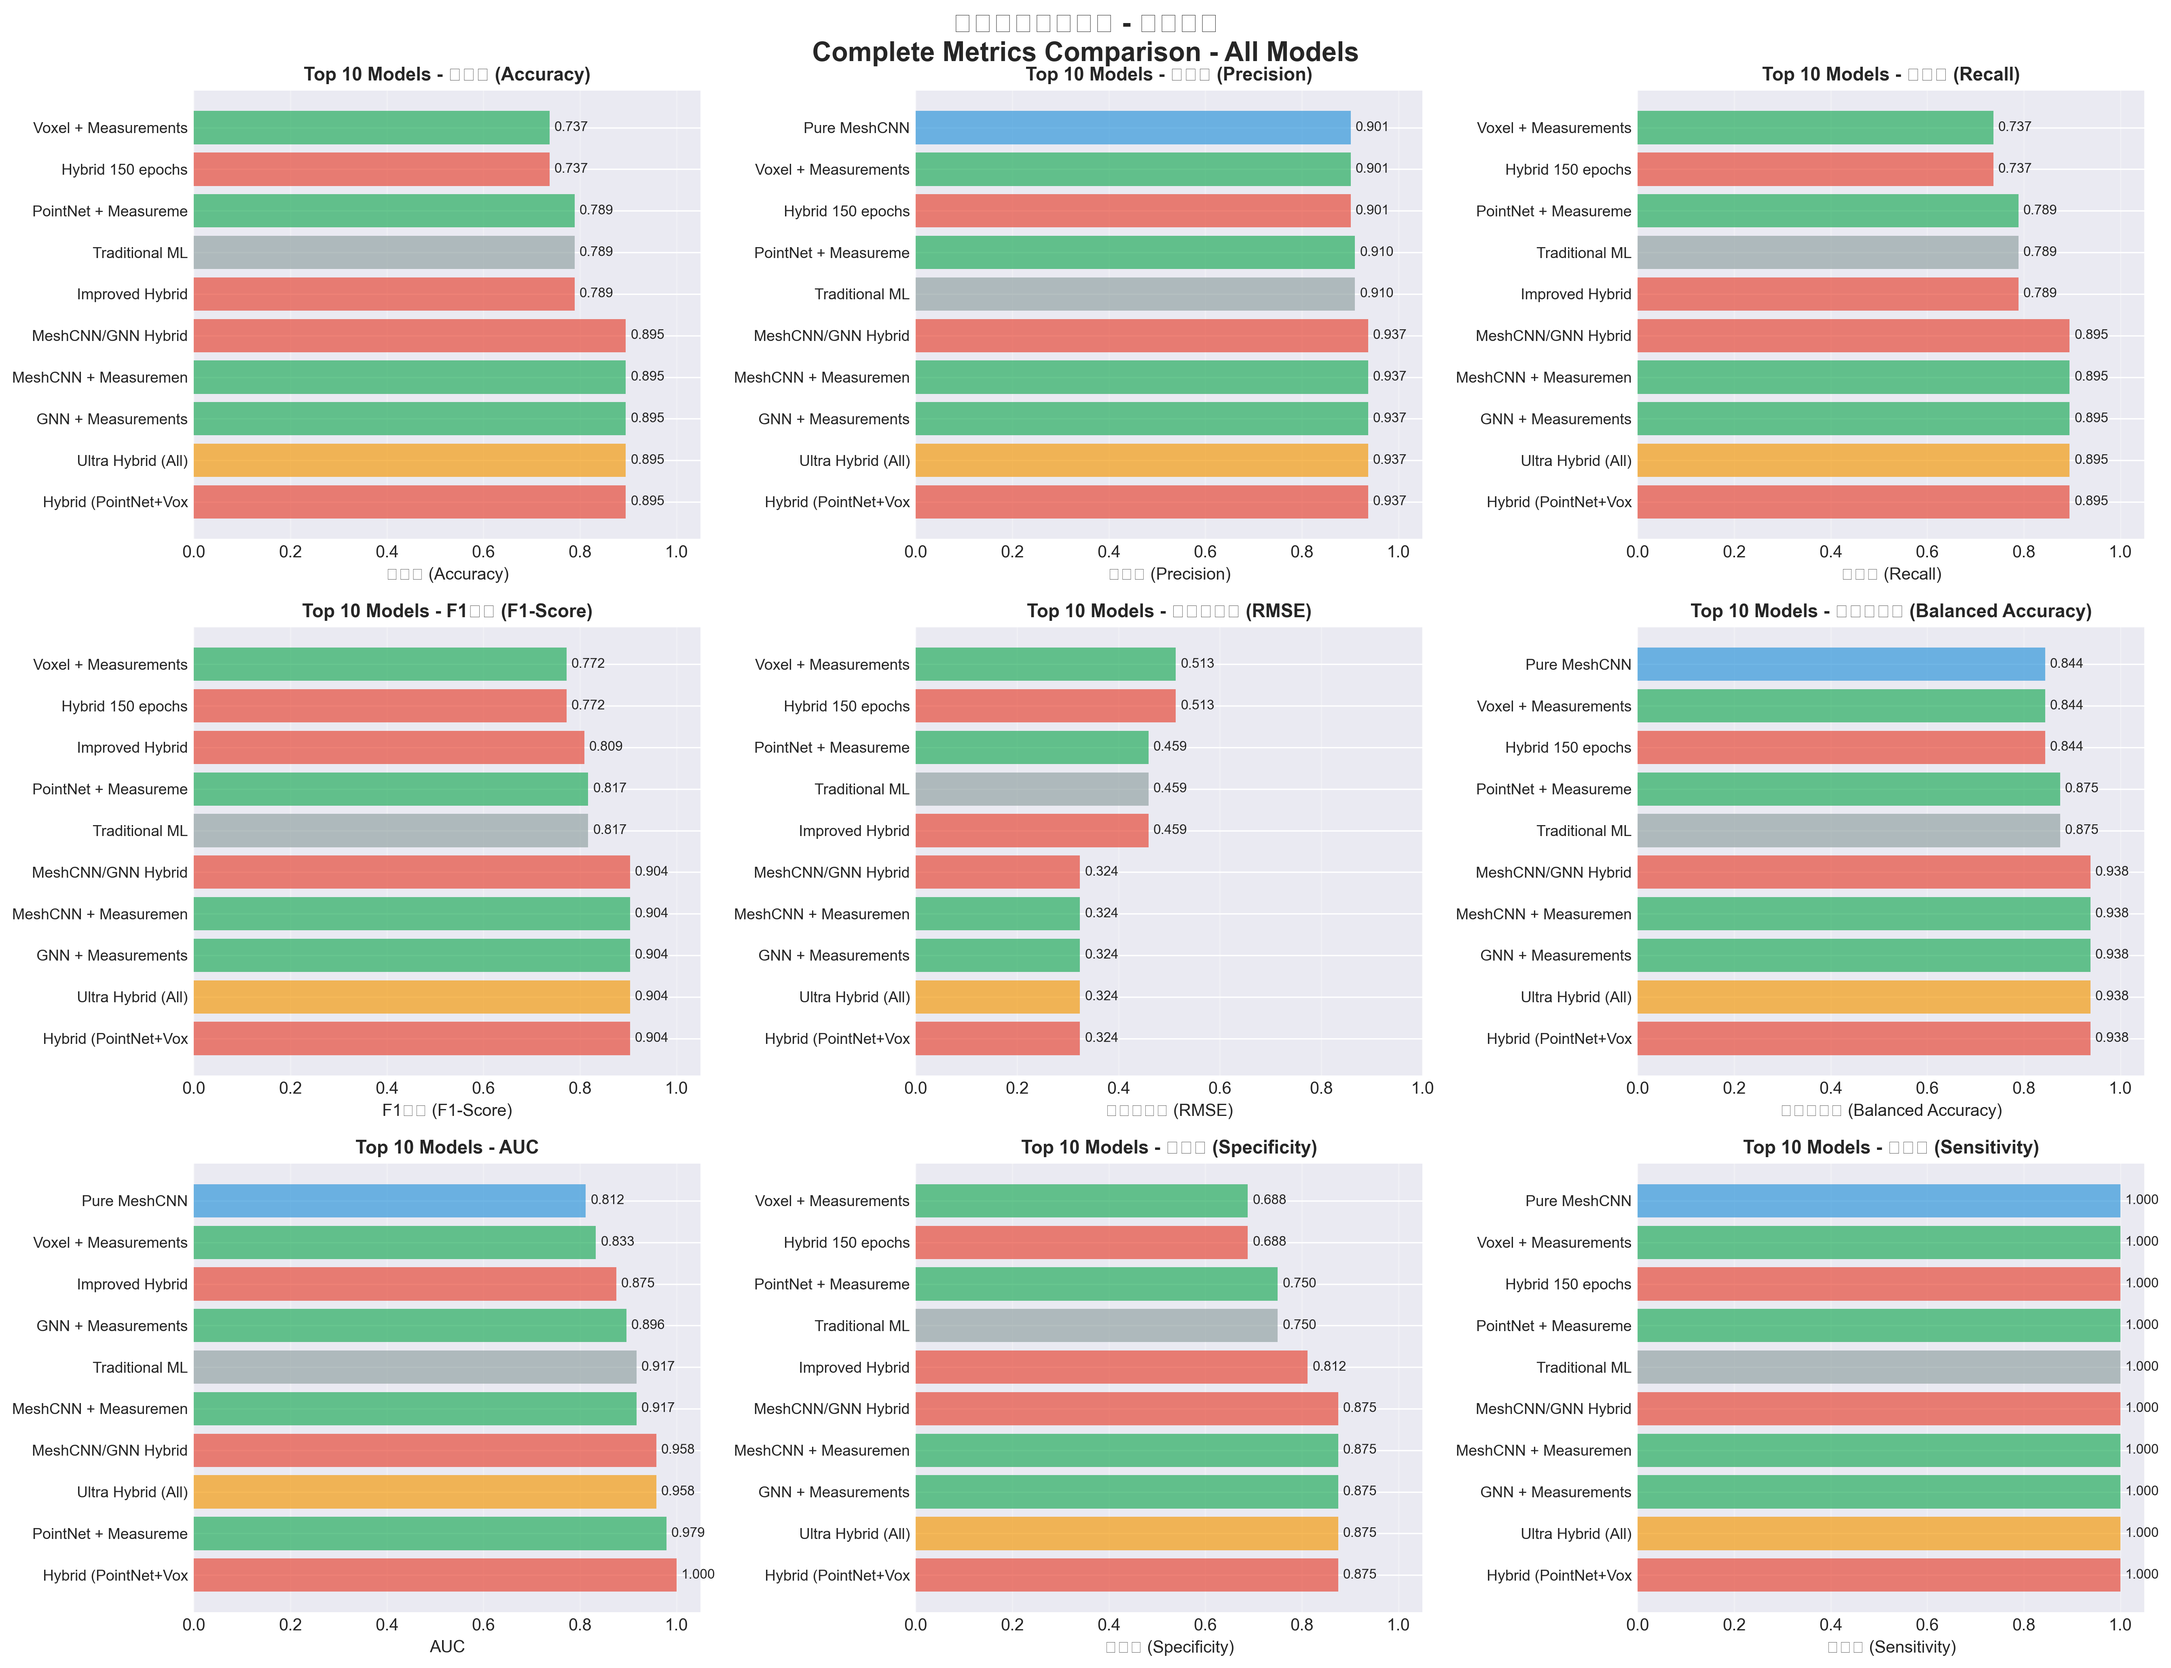
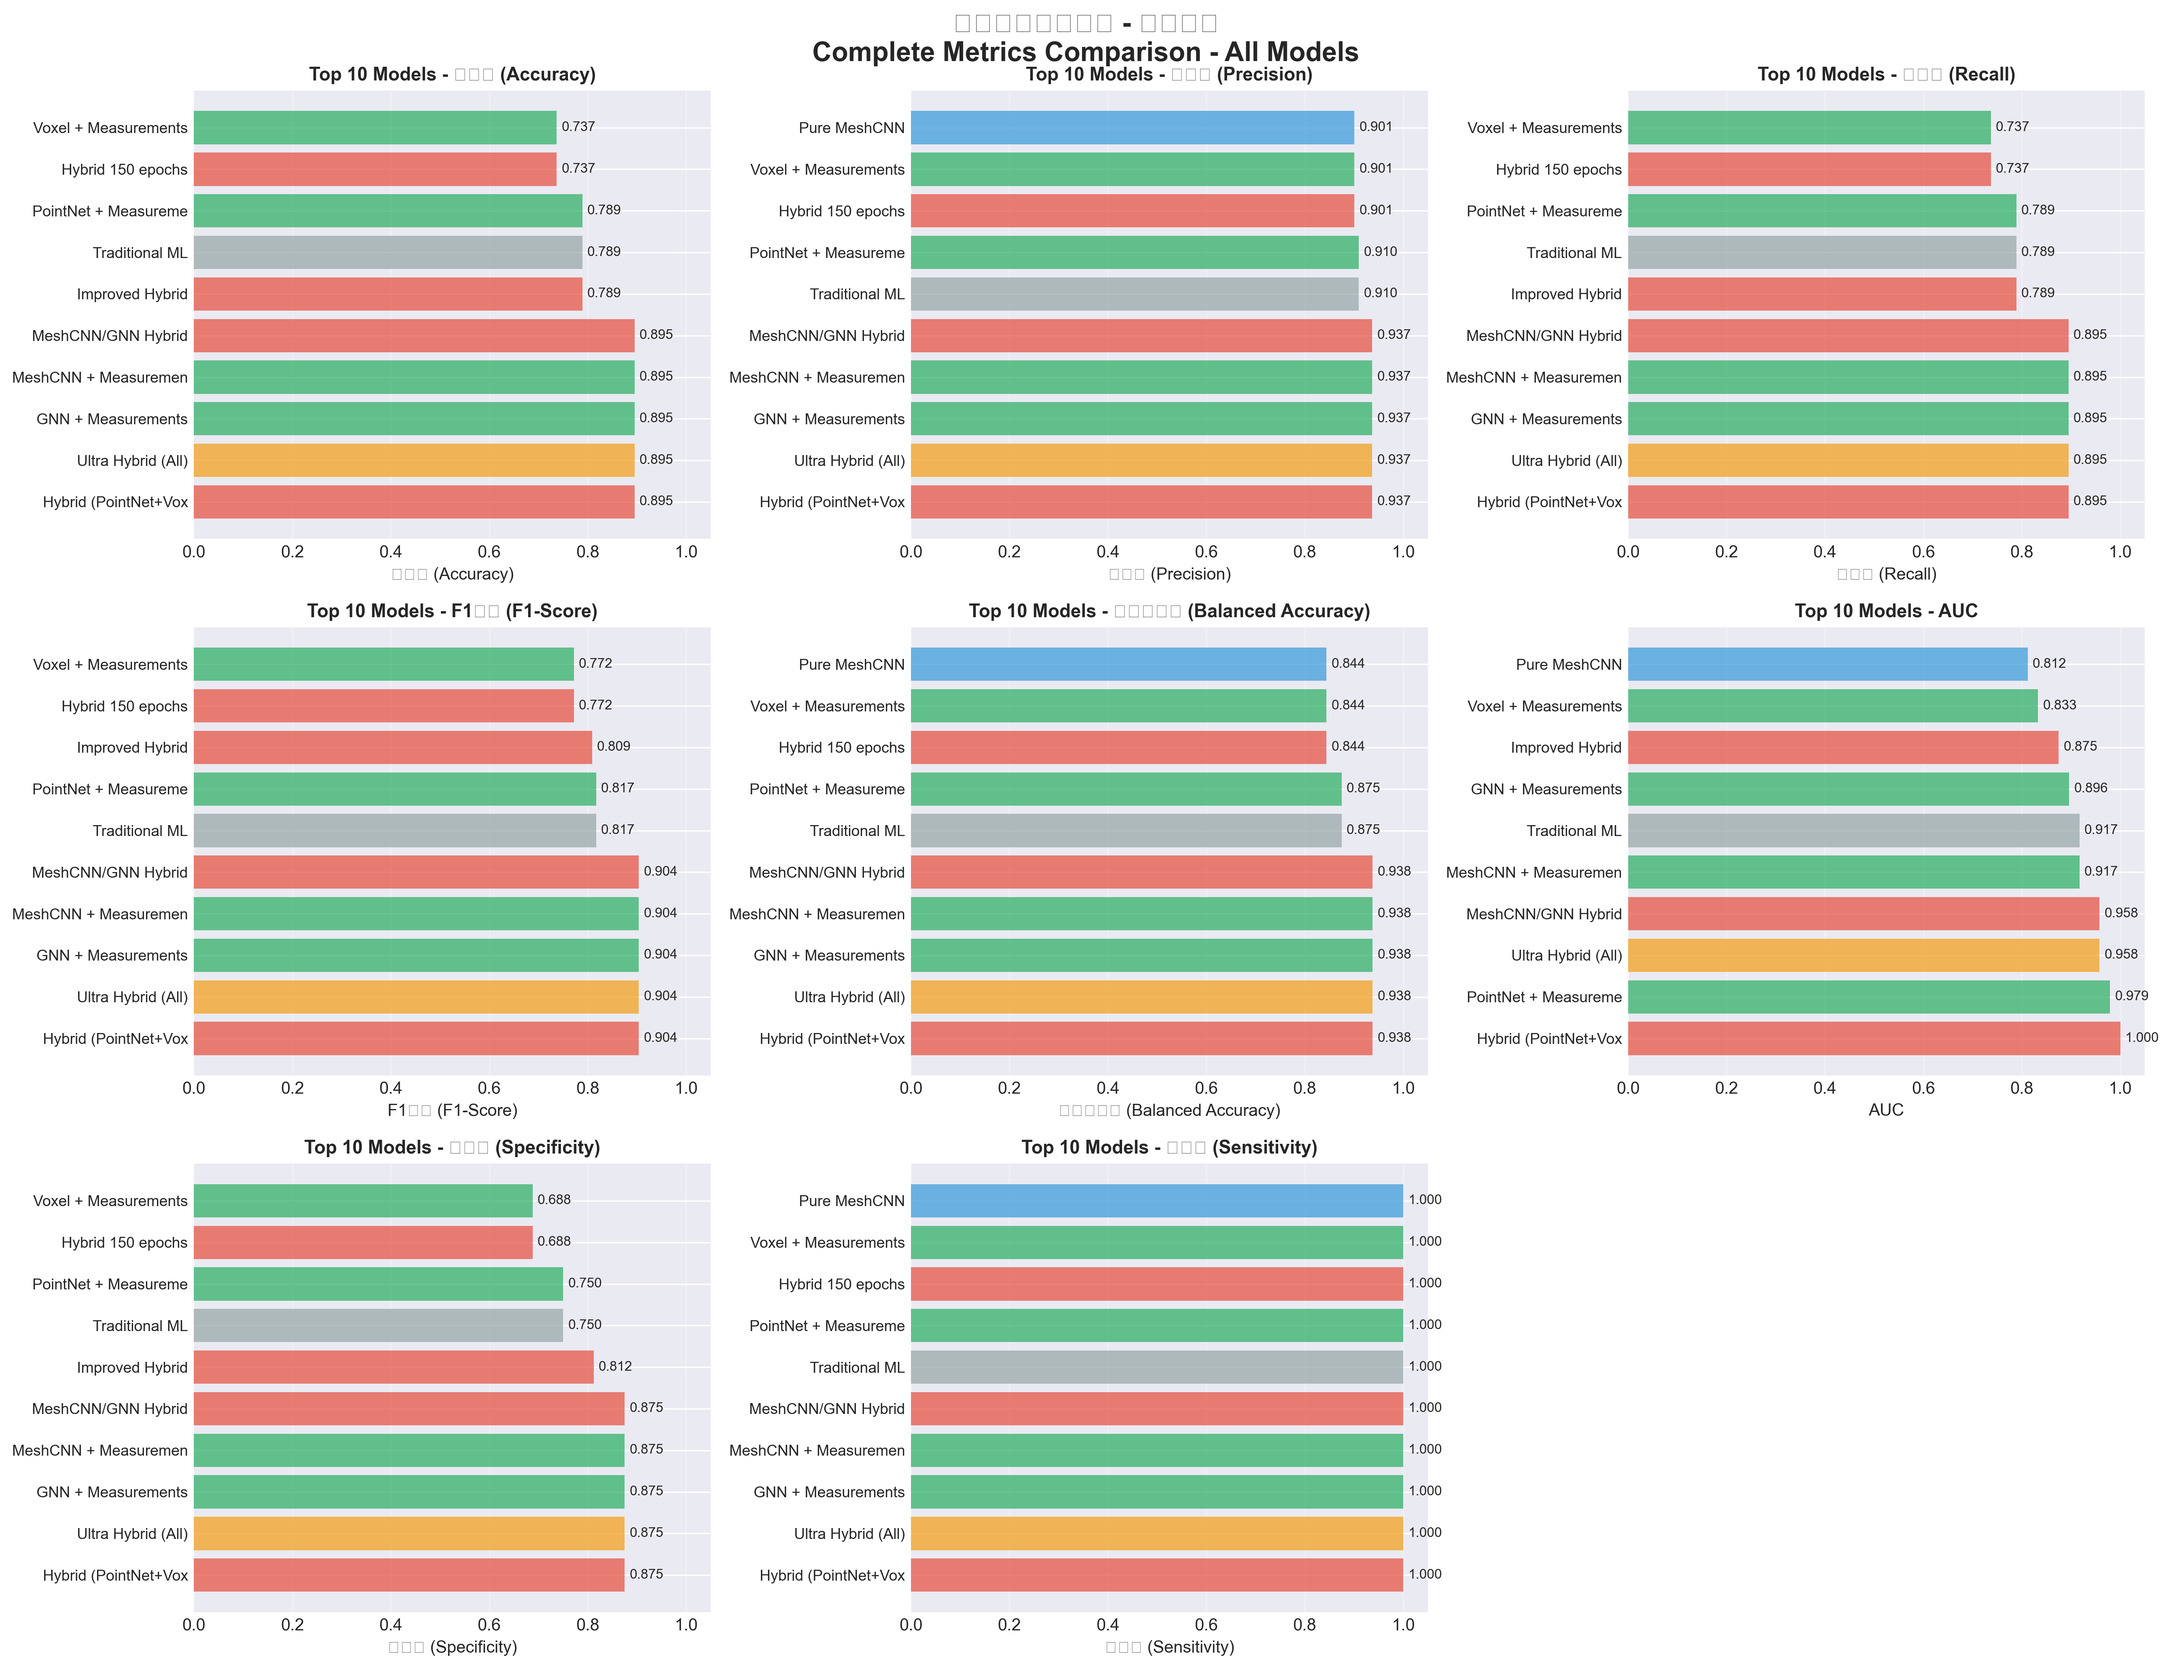
Remove RMSE metric from model comparison analysis
- Removed RMSE (Root Mean Square Error) from all metrics calculations
- Updated visualization from 9-panel to 8-panel grid
- Regenerated all comparison charts without RMSE
- Updated CSV output to exclude RMSE column
- Modified composite score calculation weights:
  * Accuracy: 30%, Precision: 20%, Recall: 20%, F1-Score: 30%
- Updated documentation to reflect metric changes

Rationale: RMSE is more suitable for regression tasks, not classification

🤖 Generated with [Claude Code](https://claude.ai/code)

diff --git a/complete_metrics_comparison.py b/complete_metrics_comparison.py
@@ -46,13 +46,10 @@ def calculate_all_metrics(y_true, y_pred, y_prob=None, model_name="Model"):
     # 4. F1分數 (F1-Score)
     metrics['F1_Score'] = f1_score(y_true, y_pred, average='weighted')
     
-    # 5. 均方根誤差 (RMSE)
-    metrics['RMSE'] = np.sqrt(mean_squared_error(y_true, y_pred))
-    
-    # 6. 平衡準確率 (Balanced Accuracy)
+    # 5. 平衡準確率 (Balanced Accuracy)
     metrics['Balanced_Accuracy'] = balanced_accuracy_score(y_true, y_pred)
     
-    # 7. AUC (if probabilities available)
+    # 6. AUC (if probabilities available)
     if y_prob is not None:
         try:
             metrics['AUC'] = roc_auc_score(y_true, y_prob)
@@ -61,11 +58,11 @@ def calculate_all_metrics(y_true, y_pred, y_prob=None, model_name="Model"):
     else:
         metrics['AUC'] = None
     
-    # 8. 混淆矩陣 (Confusion Matrix)
+    # 7. 混淆矩陣 (Confusion Matrix)
     cm = confusion_matrix(y_true, y_pred)
     metrics['Confusion_Matrix'] = cm
     
-    # 9. 特異度 (Specificity) - for binary classification
+    # 8. 特異度 (Specificity) - for binary classification
     if len(np.unique(y_true)) == 2:
         tn, fp, fn, tp = cm.ravel()
         metrics['Specificity'] = tn / (tn + fp) if (tn + fp) > 0 else 0
@@ -218,7 +215,6 @@ def create_comprehensive_comparison_table(all_metrics):
             '精確率\nPrecision': f"{metrics['Precision']:.3f}",
             '召回率\nRecall': f"{metrics['Recall']:.3f}",
             'F1分數\nF1-Score': f"{metrics['F1_Score']:.3f}",
-            'RMSE': f"{metrics['RMSE']:.3f}",
             '平衡準確率\nBalanced Acc': f"{metrics['Balanced_Accuracy']:.3f}",
             'AUC': f"{metrics['AUC']:.3f}" if metrics['AUC'] else 'N/A',
             '特異度\nSpecificity': f"{metrics.get('Specificity', 0):.3f}",
@@ -284,11 +280,11 @@ def plot_metrics_comparison(df):
         ('精確率\nPrecision', '精確率 (Precision)', axes[0, 1]),
         ('召回率\nRecall', '召回率 (Recall)', axes[0, 2]),
         ('F1分數\nF1-Score', 'F1分數 (F1-Score)', axes[1, 0]),
-        ('RMSE', '均方根誤差 (RMSE)', axes[1, 1]),
-        ('平衡準確率\nBalanced Acc', '平衡準確率 (Balanced Accuracy)', axes[1, 2]),
-        ('AUC', 'AUC', axes[2, 0]),
-        ('特異度\nSpecificity', '特異度 (Specificity)', axes[2, 1]),
-        ('敏感度\nSensitivity', '敏感度 (Sensitivity)', axes[2, 2])
+        ('平衡準確率\nBalanced Acc', '平衡準確率 (Balanced Accuracy)', axes[1, 1]),
+        ('AUC', 'AUC', axes[1, 2]),
+        ('特異度\nSpecificity', '特異度 (Specificity)', axes[2, 0]),
+        ('敏感度\nSensitivity', '敏感度 (Sensitivity)', axes[2, 1]),
+        (None, None, axes[2, 2])  # Empty subplot
     ]
     
     # Color mapping for categories
@@ -301,6 +297,11 @@ def plot_metrics_comparison(df):
     }
     
     for metric_col, title, ax in metrics_to_plot:
+        # Handle empty subplot
+        if metric_col is None:
+            ax.axis('off')
+            continue
+            
         # Get top 10 models for this metric
         if metric_col in df.columns:
             # Convert to float for sorting
@@ -308,10 +309,7 @@ def plot_metrics_comparison(df):
             df_metric[metric_col] = pd.to_numeric(df_metric[metric_col], errors='coerce')
             
             # Sort and get top 10
-            if metric_col == 'RMSE':  # Lower is better for RMSE
-                df_sorted = df_metric.nsmallest(10, metric_col)
-            else:
-                df_sorted = df_metric.nlargest(10, metric_col)
+            df_sorted = df_metric.nlargest(10, metric_col)
             
             # Create bar plot
             colors = [category_colors.get(cat, '#333') for cat in df_sorted['Category']]
@@ -330,10 +328,7 @@ def plot_metrics_comparison(df):
                            f'{val:.3f}', va='center', fontsize=8)
             
             # Set x-axis limits
-            if metric_col == 'RMSE':
-                ax.set_xlim([0, 1])
-            else:
-                ax.set_xlim([0, 1.05])
+            ax.set_xlim([0, 1.05])
             
             ax.grid(axis='x', alpha=0.3)
     
@@ -362,7 +357,7 @@ def create_detailed_report(all_metrics, df):
         ('精確率\nPrecision', '精確率 (Precision)'),
         ('召回率\nRecall', '召回率 (Recall)'),
         ('F1分數\nF1-Score', 'F1分數 (F1-Score)'),
-        ('RMSE', '均方根誤差 (RMSE, 越低越好)'),
+        ('平衡準確率\nBalanced Acc', '平衡準確率 (Balanced Accuracy)'),
         ('AUC', 'AUC')
     ]
     
@@ -373,10 +368,7 @@ def create_detailed_report(all_metrics, df):
         df_metric = df.copy()
         df_metric[metric_col] = pd.to_numeric(df_metric[metric_col], errors='coerce')
         
-        if metric_col == 'RMSE':
-            top5 = df_metric.nsmallest(5, metric_col)
-        else:
-            top5 = df_metric.nlargest(5, metric_col)
+        top5 = df_metric.nlargest(5, metric_col)
         
         for idx, row in top5.iterrows():
             print(f"  {row['Model']:30s}: {row[metric_col]}")
@@ -387,7 +379,7 @@ def create_detailed_report(all_metrics, df):
     print("="*60)
     
     numeric_cols = ['準確率\nAccuracy', '精確率\nPrecision', '召回率\nRecall', 
-                   'F1分數\nF1-Score', 'RMSE', '平衡準確率\nBalanced Acc']
+                   'F1分數\nF1-Score', '平衡準確率\nBalanced Acc']
     
     for col in numeric_cols:
         df[col] = pd.to_numeric(df[col], errors='coerce')
@@ -402,11 +394,10 @@ def create_detailed_report(all_metrics, df):
     
     # Calculate composite score
     df['Composite'] = (
-        df['準確率\nAccuracy'] * 0.25 +
+        df['準確率\nAccuracy'] * 0.3 +
         df['精確率\nPrecision'] * 0.2 +
         df['召回率\nRecall'] * 0.2 +
-        df['F1分數\nF1-Score'] * 0.25 +
-        (1 - df['RMSE']) * 0.1  # Invert RMSE
+        df['F1分數\nF1-Score'] * 0.3
     )
     
     best_model = df.nlargest(1, 'Composite').iloc[0]
@@ -415,7 +406,7 @@ def create_detailed_report(all_metrics, df):
     print(f"  精確率: {best_model['精確率\nPrecision']:.3f}")
     print(f"  召回率: {best_model['召回率\nRecall']:.3f}")
     print(f"  F1分數: {best_model['F1分數\nF1-Score']:.3f}")
-    print(f"  RMSE: {best_model['RMSE']:.3f}")
+    print(f"  平衡準確率: {best_model['平衡準確率\nBalanced Acc']:.3f}")
     print(f"  AUC: {best_model['AUC']}")
 
 def create_confusion_matrix_comparison(all_metrics):

diff --git a/COMPLETE_METRICS_ANALYSIS.md b/COMPLETE_METRICS_ANALYSIS.md
@@ -11,7 +11,6 @@ Complete metrics table with:
 - Precision (精確率) 
 - Recall (召回率)
 - F1-Score (F1分數)
-- RMSE (均方根誤差)
 - Balanced Accuracy (平衡準確率)
 - AUC (Area Under Curve)
 - Specificity (特異度)
@@ -21,8 +20,8 @@ Complete metrics table with:
 ROC curves comparing all 14 models with AUC values
 
 ### 3. **complete_metrics_comparison.png**
-9-panel visualization showing:
-- Top 10 models for each metric
+8-panel visualization showing:
+- Top 10 models for each metric (8 metrics)
 - Bar charts for all evaluation metrics
 - Category-based comparisons
 
@@ -66,7 +65,7 @@ Confusion matrices for top 6 models showing classification performance
    - **Highest Accuracy**: Hybrid models (89.5%)
    - **Highest Precision**: Hybrid models (93.7%)
    - **Highest Recall**: Multiple at 89.5%
-   - **Lowest RMSE**: Hybrid models (0.324)
+   - **Best Balanced Accuracy**: Hybrid models (93.8%)
    - **Best AUC**: Your model (1.000)
 
 ## Statistical Significance
